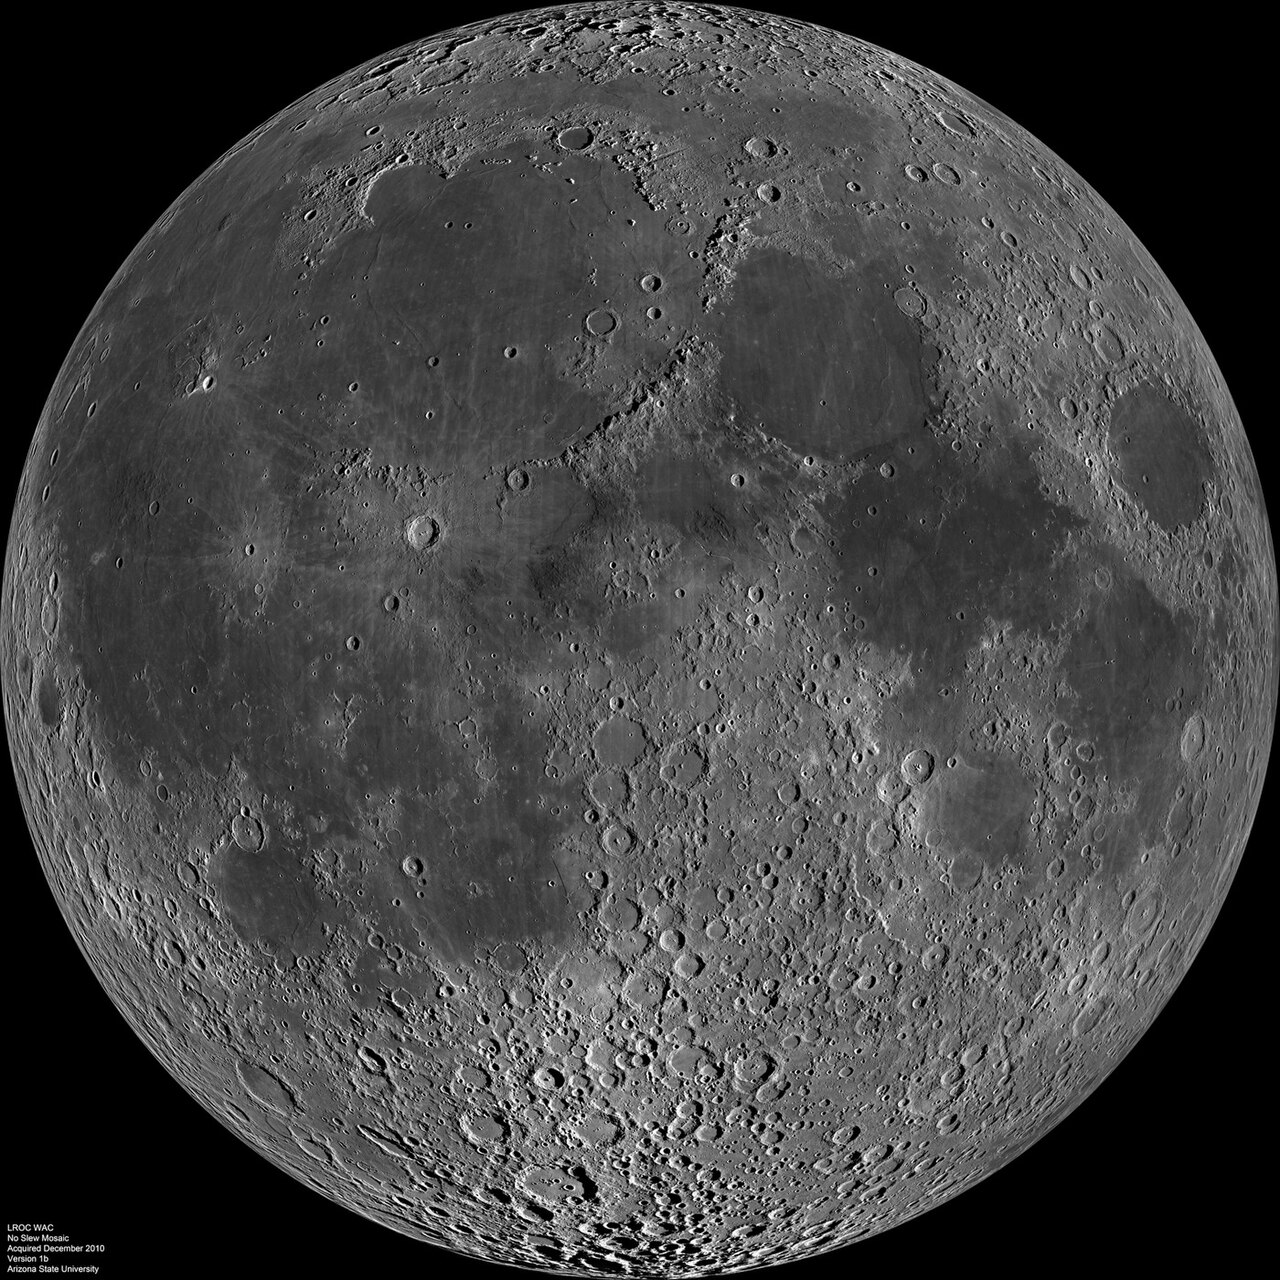
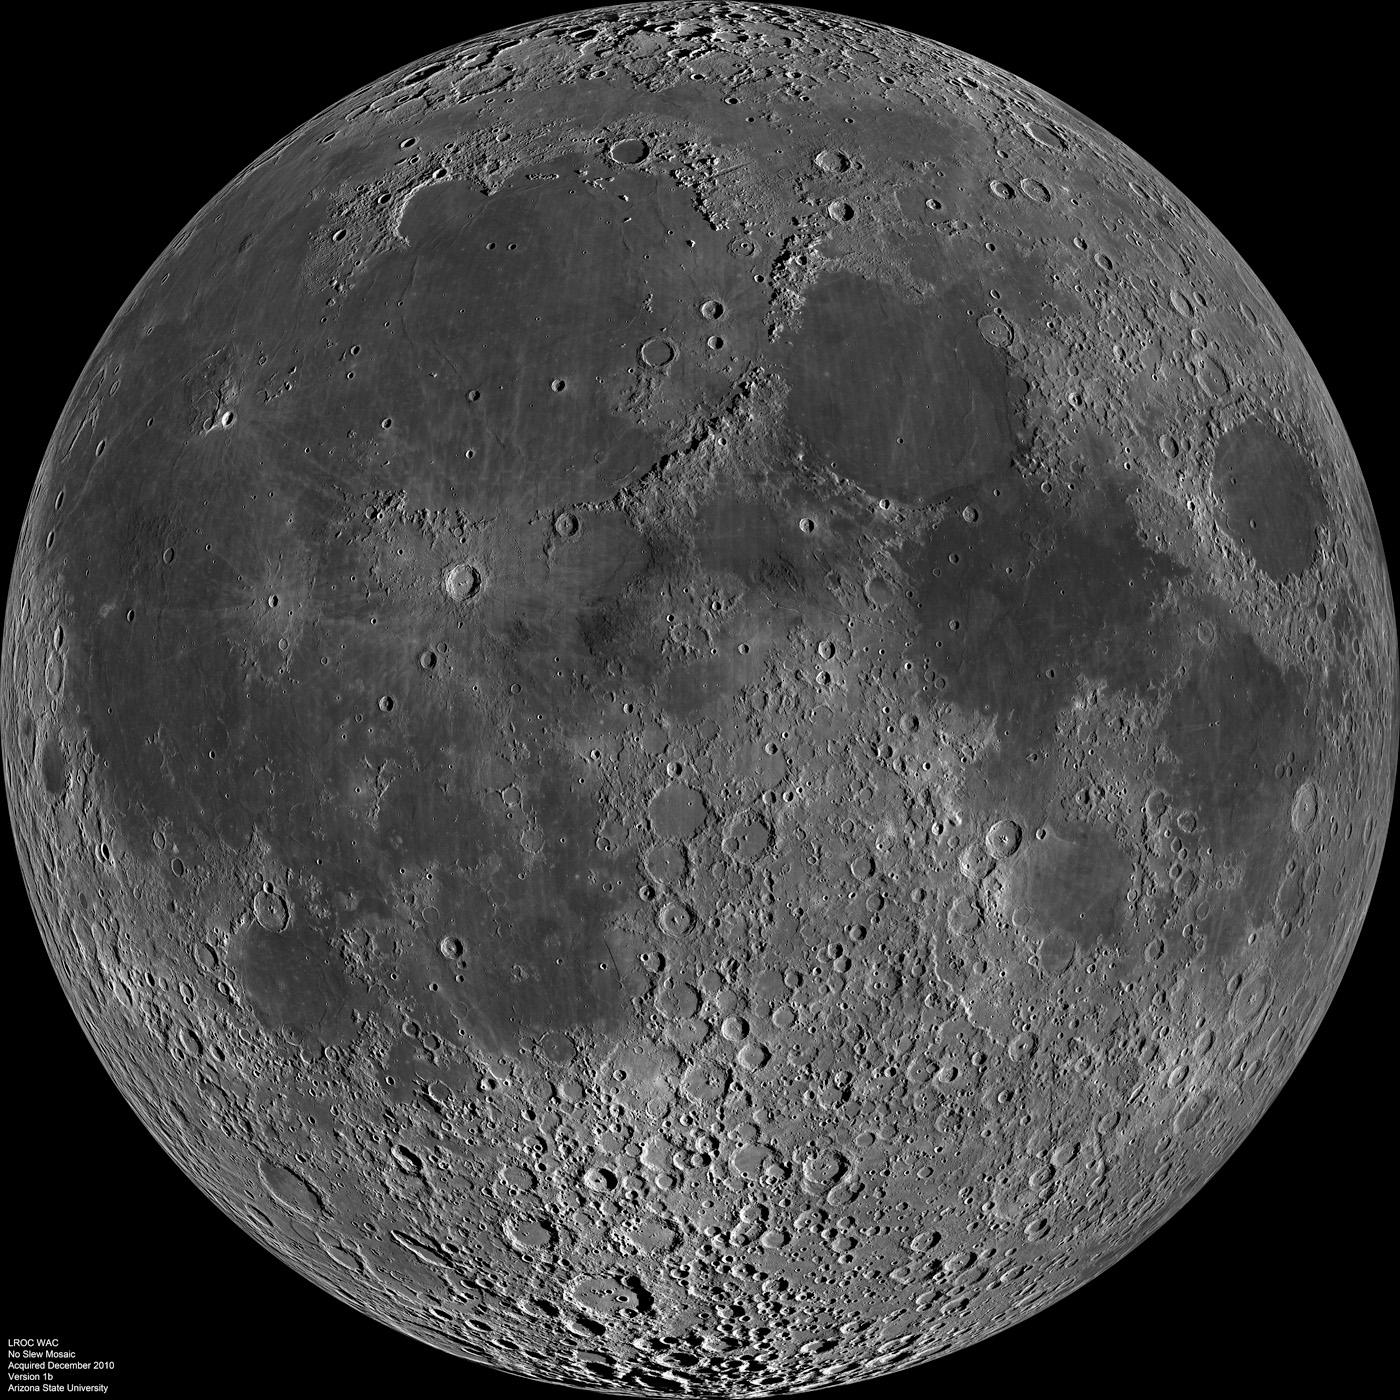
Lua (LRO): trocar a cópia de 1.280 px pelo original de 1.400 × 1.400 px, conferido pela página do Commons
Claude-Session: https://claude.ai/code/session_014tUBt8CmpQRa8UVzrgLHFt

diff --git a/espaconave/index.html b/espaconave/index.html
@@ -416,7 +416,7 @@ function completo(){const t=tiposPresentes();return !!R().nome.trim()&&t.sensor&
 function falar(el,t){$(el).textContent=t;}
 
 /* ---------- Telas ---------- */
-const FUNDOS=[{img:"imagens/nova-12.jpg",c:"Júpiter: NASA/JPL-Caltech/ASU (sonda Juno). Domínio público. commons.wikimedia.org/wiki/File:Jupiter_-_Juno.jpg"},{img:"imagens/nova-11-web.jpg",c:"Marte: NASA/JPL/USGS (mosaico Viking, PIA00407). Domínio público. commons.wikimedia.org/wiki/File:MARS-Viking.jpg"},{img:"imagens/nova-10-web.jpg",c:"Netuno: Andrea Luck, dados NASA/JPL/Voyager-ISS. CC BY 2.0. commons.wikimedia.org/wiki/File:Neptune_-_Nasa%27s_Voyager_2_-_1989_(53506151058).png"},{img:"imagens/nova-02-web.jpg",c:"Ônibus Atlantis na plataforma 39A (STS-125): NASA/Scott Andrews (KSC-2009-3108). Domínio público. commons.wikimedia.org/wiki/File:STS-125_Atlantis_Liftoff_02.jpg"},{img:"imagens/nova-03-web.jpg",c:"Foguete Ares I-X decolando: NASA (KSC-2009-5944). Domínio público. commons.wikimedia.org/wiki/File:Ares_I-X_launch_08.jpg"},{img:"imagens/nova-04-web.jpg",c:"Saturn V na plataforma (Apollo 4): NASA (GPN-2006-000038). Domínio público. commons.wikimedia.org/wiki/File:Apollo_4_liftoff_-_GPN-2006-000038.jpg"},{img:"imagens/nova-05-web.jpg",c:"Decolagem da Apollo 11: NASA, restaurada por Michel Vuijlsteke. Domínio público. commons.wikimedia.org/wiki/File:Apollo_11_Launch2.jpg"},{img:"imagens/nova-08-web.jpg",c:"Ingenuity sobre Marte: NASA/JPL-Caltech (PIA24541). Domínio público. commons.wikimedia.org/wiki/File:NASA%27s_Ingenuity_helicopter_on_April_4,_2021.jpg"},{img:"imagens/nova-09-web.jpg",c:"Primeira imagem colorida de Marte (Perseverance): NASA/JPL-Caltech. Domínio público. commons.wikimedia.org/wiki/File:Perseverance%27s_First_Full-Color_Look_at_Mars.png"},{img:"imagens/nova-07-web.jpg",c:"Braço Canadarm2 na ISS (ISS062-E-055099): NASA. Domínio público. commons.wikimedia.org/wiki/File:Canadarm2_during_Expedition_62_(ISS062-E-055099).jpg"},{img:"imagens/nova-13-web.jpg",c:"A Terra (The Blue Marble): Harrison Schmitt / Apollo 17, NASA (AS17-148-22727). Domínio público. Cópia redimensionada, retocada no Commons. commons.wikimedia.org/wiki/File:The_Blue_Marble,_AS17-148-22727.jpg"},{img:"imagens/nova-14-web.jpg",c:"A Lua (face visível, sonda LRO): NASA/GSFC/Universidade Estadual do Arizona. Domínio público. Cópia redimensionada (1.280 px) de Lua lado próximo LRO, 1.400 × 1.400 px. commons.wikimedia.org/wiki/File:Moon_nearside_LRO.jpg"},{img:"imagens/nova-06-web.jpg",c:"Robô Spot (Boston Dynamics) em trilha na floresta: Jonte (Jonatan Holmgren), trabalho próprio. CC BY-SA 4.0. commons.wikimedia.org/wiki/File:Spot_by_Boston_Dynamics.jpg"},{img:"imagens/nova-15-web.jpg",c:"Saturno visto pela sonda Cassini (6 out 2004): NASA/JPL/Space Science Institute. Domínio público. Cópia redimensionada (8.000 px) do original de 8.888 × 4.544 px. commons.wikimedia.org/wiki/File:Saturn_from_Cassini_Orbiter_(2004-10-06).jpg"}];
+const FUNDOS=[{img:"imagens/nova-12.jpg",c:"Júpiter: NASA/JPL-Caltech/ASU (sonda Juno). Domínio público. commons.wikimedia.org/wiki/File:Jupiter_-_Juno.jpg"},{img:"imagens/nova-11-web.jpg",c:"Marte: NASA/JPL/USGS (mosaico Viking, PIA00407). Domínio público. commons.wikimedia.org/wiki/File:MARS-Viking.jpg"},{img:"imagens/nova-10-web.jpg",c:"Netuno: Andrea Luck, dados NASA/JPL/Voyager-ISS. CC BY 2.0. commons.wikimedia.org/wiki/File:Neptune_-_Nasa%27s_Voyager_2_-_1989_(53506151058).png"},{img:"imagens/nova-02-web.jpg",c:"Ônibus Atlantis na plataforma 39A (STS-125): NASA/Scott Andrews (KSC-2009-3108). Domínio público. commons.wikimedia.org/wiki/File:STS-125_Atlantis_Liftoff_02.jpg"},{img:"imagens/nova-03-web.jpg",c:"Foguete Ares I-X decolando: NASA (KSC-2009-5944). Domínio público. commons.wikimedia.org/wiki/File:Ares_I-X_launch_08.jpg"},{img:"imagens/nova-04-web.jpg",c:"Saturn V na plataforma (Apollo 4): NASA (GPN-2006-000038). Domínio público. commons.wikimedia.org/wiki/File:Apollo_4_liftoff_-_GPN-2006-000038.jpg"},{img:"imagens/nova-05-web.jpg",c:"Decolagem da Apollo 11: NASA, restaurada por Michel Vuijlsteke. Domínio público. commons.wikimedia.org/wiki/File:Apollo_11_Launch2.jpg"},{img:"imagens/nova-08-web.jpg",c:"Ingenuity sobre Marte: NASA/JPL-Caltech (PIA24541). Domínio público. commons.wikimedia.org/wiki/File:NASA%27s_Ingenuity_helicopter_on_April_4,_2021.jpg"},{img:"imagens/nova-09-web.jpg",c:"Primeira imagem colorida de Marte (Perseverance): NASA/JPL-Caltech. Domínio público. commons.wikimedia.org/wiki/File:Perseverance%27s_First_Full-Color_Look_at_Mars.png"},{img:"imagens/nova-07-web.jpg",c:"Braço Canadarm2 na ISS (ISS062-E-055099): NASA. Domínio público. commons.wikimedia.org/wiki/File:Canadarm2_during_Expedition_62_(ISS062-E-055099).jpg"},{img:"imagens/nova-13-web.jpg",c:"A Terra (The Blue Marble): Harrison Schmitt / Apollo 17, NASA (AS17-148-22727). Domínio público. Cópia redimensionada, retocada no Commons. commons.wikimedia.org/wiki/File:The_Blue_Marble,_AS17-148-22727.jpg"},{img:"imagens/nova-14-web.jpg",c:"A Lua (face visível, sonda LRO): NASA/GSFC/Universidade Estadual do Arizona. Domínio público. Original de 1.400 × 1.400 px, conferido. commons.wikimedia.org/wiki/File:Moon_nearside_LRO.jpg"},{img:"imagens/nova-06-web.jpg",c:"Robô Spot (Boston Dynamics) em trilha na floresta: Jonte (Jonatan Holmgren), trabalho próprio. CC BY-SA 4.0. commons.wikimedia.org/wiki/File:Spot_by_Boston_Dynamics.jpg"},{img:"imagens/nova-15-web.jpg",c:"Saturno visto pela sonda Cassini (6 out 2004): NASA/JPL/Space Science Institute. Domínio público. Cópia redimensionada (8.000 px) do original de 8.888 × 4.544 px. commons.wikimedia.org/wiki/File:Saturn_from_Cassini_Orbiter_(2004-10-06).jpg"}];
 function fundoAula(n){const f=FUNDOS[(n-1)%FUNDOS.length];const v=$('v-aula');v.style.backgroundImage="linear-gradient(180deg,rgba(3,5,13,.78),rgba(3,5,13,.92)),url('"+f.img+"')";let c=$('credito-fundo');if(!c){c=document.createElement('p');c.id='credito-fundo';c.style.cssText='font-size:12px;color:#9fb0d8;margin:16px 0 0;text-align:center';v.appendChild(c);}c.textContent='Foto de fundo: '+f.c;}
 function tela(v){['v-entrada','v-hangar','v-aula','v-prof'].forEach(x=>{$(x).hidden=(x!==v);});window.scrollTo(0,0);}
 const ABAS=[['modelo','1 Modelo'],['poderes','2 Poderes'],['inventar','3 Inventar'],['missoes','4 Missões']];
